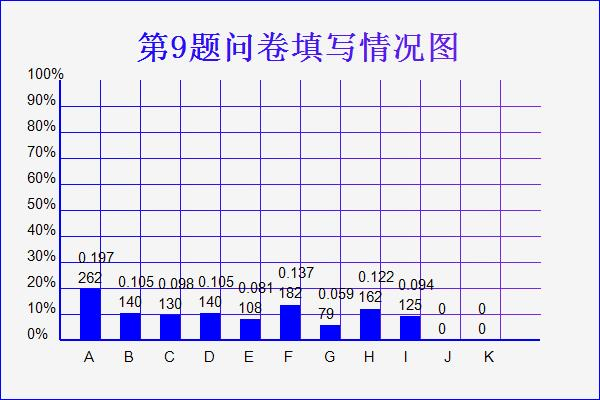
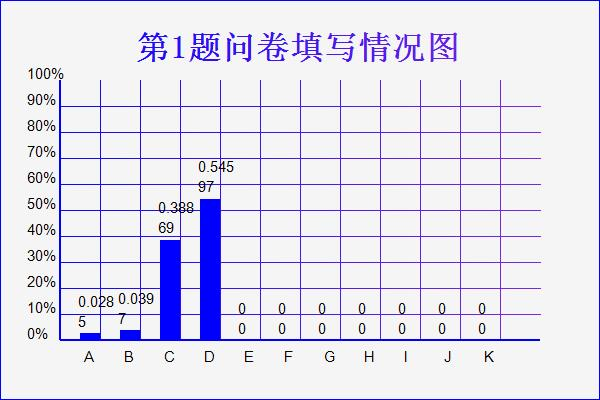
2017-3-13

Changed region(s): [[0.12, 0.39, 0.72, 0.87], [0.27, 0.09, 0.33, 0.15]]

diff --git a/RelatedSelect.aspx.cs b/RelatedSelect.aspx.cs
@@ -11,34 +11,126 @@ using System.Drawing.Drawing2D;
 using System.Drawing.Text;
 using System.Drawing.Imaging;
 
-public partial class ComplexSelect : System.Web.UI.Page
+
+public partial class RelatedSelect : System.Web.UI.Page
 {
-    static int sum = 0;
     protected void Page_Load(object sender, EventArgs e)
     {
 
     }
 
-    protected void CSelectB_Click(object sender, EventArgs e)
+    static int sum = 0;
+    protected void RSelectB_Click(object sender, EventArgs e)
     {
         string queID = Request.Form["queID"];
-        string grade = Request.Form["grade"];
-        string sex = Request.Form["sex"];
-        string wenorli = Request.Form["major"];
-        if (CheckInput(queID))
+        string related = Request.Form["relatedbox"];
+        string relatedqueID = Request.Form["relatedqueID"];
+        if (CheckInput(queID) && related != "" && CheckInput(relatedqueID)) 
         {
-            Stack all = Query(queID, sex, grade, wenorli);
-            int[] checknum = toRatio(all);
+            bool[] relatedarray = CheckCheckbox(related);
+            Stack all = Query(queID, relatedqueID, relatedarray);
+            int[] checknum = toRatio(all); //10=a,9=b,8=c...
             DrawBarGraph(checknum);
-            ImageShower.ImageUrl = "images/complexgraph.jpeg";
-
+            ImageShower.ImageUrl = "images/graph.jpeg";
         }
         else
+            LabelWarning.Text = "您的输入有误!";
+    }
+    public bool[] CheckCheckbox(string related)
+    {
+        bool[] result = new bool[11];
+        string[] answer = related.Split(',');
+        foreach(string st in answer)
         {
-            LabelWarning.Text = "请输入正确的题号";
+            result[Convert.ToInt32(st)] = true;
+        } 
+        return result;
+    }
+    public Stack Query(string queID, string relatedqueID, bool[] relatedarray)
+    {
+        SqlConnection sqlc = Signin();
+        Stack Checks = new Stack();
+        string id = "q" + queID;
+        string relatedid = "q" + relatedqueID;
+        sqlc.Open();
+        string command = "select " + id + "," + relatedid + " from dachuang";
+        SqlCommand sqlcom = new SqlCommand(command, sqlc);
+        SqlDataAdapter sqldata = new SqlDataAdapter(sqlcom);
+        DataSet sqlds = new DataSet();
+        sqldata.Fill(sqlds);
+        sqlc.Close();
+        bool[] value;
+        foreach (DataRow i in sqlds.Tables[0].Rows)
+        {
+            value = new bool[11];
+            value = TranAnswer(i.ItemArray[1]);
+            bool is_using = true;
+            for (int k = 10; k >= 0; k--) 
+            {
+                if (relatedarray[k])
+                {
+                    if (!value[k])
+                    {
+                        is_using = false;
+                        break;
+                    }
+                }
+            }
+            if (is_using)
+                Checks.Push(i.ItemArray[0]);
+        }
+        return Checks;
+    }
+
+    static public void Getsum(int[] check)
+    {
+        sum = 0;
+        foreach (int i in check)
+        {
+            sum += i;
         }
     }
-    public void DrawBarGraph(int[] checknum)
+    static public bool[] TranAnswer(object i)
+    {
+        bool[] result = new bool[11];
+        int value = Convert.ToInt32(i);
+        int now_bi = 0;
+        int now_que = 1024;
+        while (value > 0)
+        {
+            if (value >= now_que)
+            {
+                value = value - now_que;
+                result[now_bi] = true;
+            }
+            now_que = now_que / 2;
+            now_bi++;
+        }
+        return result;
+    }
+    public int[] toRatio(Stack all)
+    {
+        int[] result = new int[11];
+        foreach (object i in all)
+        {
+            int value = Convert.ToInt32(i);
+            int now_bi = 0;
+            int now_que = 1024;
+            while (value > 0)
+            {
+                if (value >= now_que)
+                {
+                    value = value - now_que;
+                    result[now_bi]++;
+                }
+                now_que = now_que / 2;
+                now_bi++;
+            }
+        }
+        Getsum(result);
+        return result;
+    }
+    public void DrawBarGraph(int[] checknum)//checknum[10]对应A
     {
         Bitmap image = new Bitmap(600, 400);
         Graphics g = Graphics.FromImage(image);
@@ -82,15 +174,17 @@ public partial class ComplexSelect : System.Web.UI.Page
         int x2 = 80;
         for (int i = 10; i >= 0; i--)
         {
+            if(sum == 0)
+            {
+                sum = 100;
+            }
             SolidBrush barbrush = new SolidBrush(Color.Blue);
-            if (sum == 0) { sum = 100; }
             g.FillRectangle(barbrush, x2, 340 - 260 * ((float)checknum[i] / (float)sum), 20, 260 * ((float)checknum[i] / (float)sum));
             g.DrawString(checknum[i].ToString(), font1, Brushes.Black, x2 - 4, 320 - 260 * ((float)checknum[i] / (float)sum));
             g.DrawString(decimal.Round(decimal.Parse(((float)checknum[i] / (float)sum).ToString()), 3).ToString(), font1, Brushes.Black, x2 - 4, 300 - 260 * ((float)checknum[i] / (float)sum));
-            
             x2 += 40;
         }
-        image.Save(Server.MapPath("~/images/complexgraph.jpeg"), ImageFormat.Jpeg);
+        image.Save(Server.MapPath("~/images/graph.jpeg"), ImageFormat.Jpeg);
         LabelWarning.Text = "如果没有显示成功，请刷新您的浏览器！";
     }
     public bool CheckInput(string queid)
@@ -107,80 +201,9 @@ public partial class ComplexSelect : System.Web.UI.Page
         }
         return false;
     }
-    public Stack Query(string queID, string sex, string grade, string wenorli)
-    {
-        SqlConnection sqlc = Signin();
-        Stack Checks = new Stack();
-        string command = ""; ;
-        string id = "q" + queID;
-        sqlc.Open();
-        string Stable;
-        if (wenorli == "文科")
-            Stable = "iswenke";
-        else if (wenorli == "理科")
-            Stable = "islike";
-        else
-            Stable = "dachuang";
-        command = "select " + id + " from " + Stable;
-        if (sex != grade)
-        {
-            command += " where ";
-            if (sex != "无所谓" && grade != "无所谓")
-                command += "sex = '" + sex + "'" + " and grade = '" + grade + "'";
-            else if (grade != "无所谓")
-                command += "grade = '" + grade + "'";
-            else if (sex != "无所谓")
-                command += "sex = '" + sex + "'";
-        }
-        string a = command;//断点用
-        SqlCommand sqlcom = new SqlCommand(command, sqlc);
-        SqlDataAdapter sqldata = new SqlDataAdapter(sqlcom);
-        DataSet sqlds = new DataSet();
-        sqldata.Fill(sqlds);
-        sqlc.Close();
-        foreach (DataRow i in sqlds.Tables[0].Rows)
-        {
-            Checks.Push(i.ItemArray[0]);
-        }
-        return Checks;
-    }
     public static SqlConnection Signin()
     {
         string Sqlst = "Server=bds240792229.my3w.com;User Id=bds240792229;Pwd=961016728;Database=bds240792229_db";
         return new SqlConnection(Sqlst);
     }//封装远程数据库账号密码，返回连接对象
-    public int[] toRatio(Stack all)
-    {
-        int[] result = new int[11];
-        foreach (object i in all)
-        {
-            int value = Convert.ToInt32(i);
-            int now_bi = 0;
-            int now_que = 1024;
-            while (value > 0)
-            {
-                if (value >= now_que)
-                {
-                    value = value - now_que;
-                    result[now_bi]++;
-                }
-                now_que = now_que / 2;
-                now_bi++;
-            }
-        }
-        Getsum(result);
-        return result;
-    }
-    static public void Getsum(int[] check)
-    {
-        sum = 0;
-        foreach (int i in check)
-        {
-            sum += i;
-        }
-    }
-    protected void CButtonS_Click(object sender, EventArgs e)
-    {
-
-    }
 }
